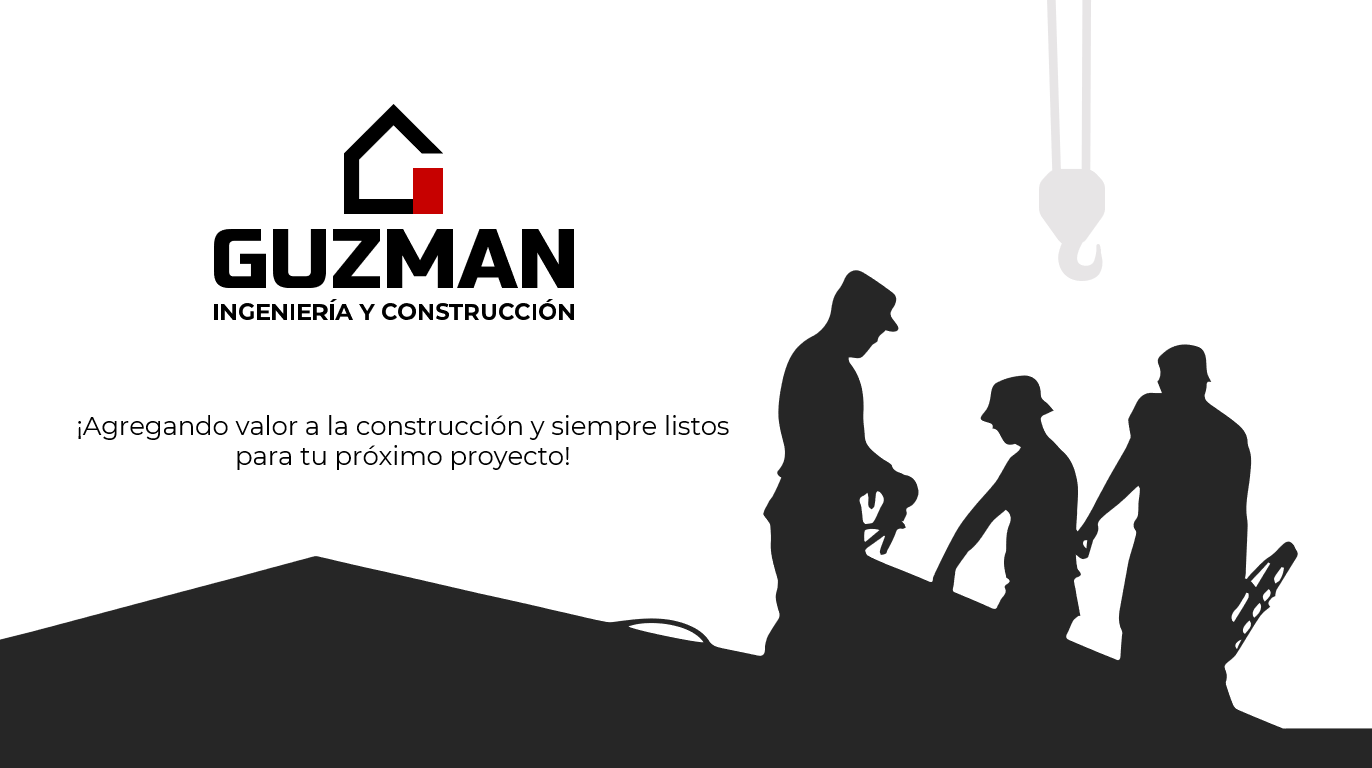
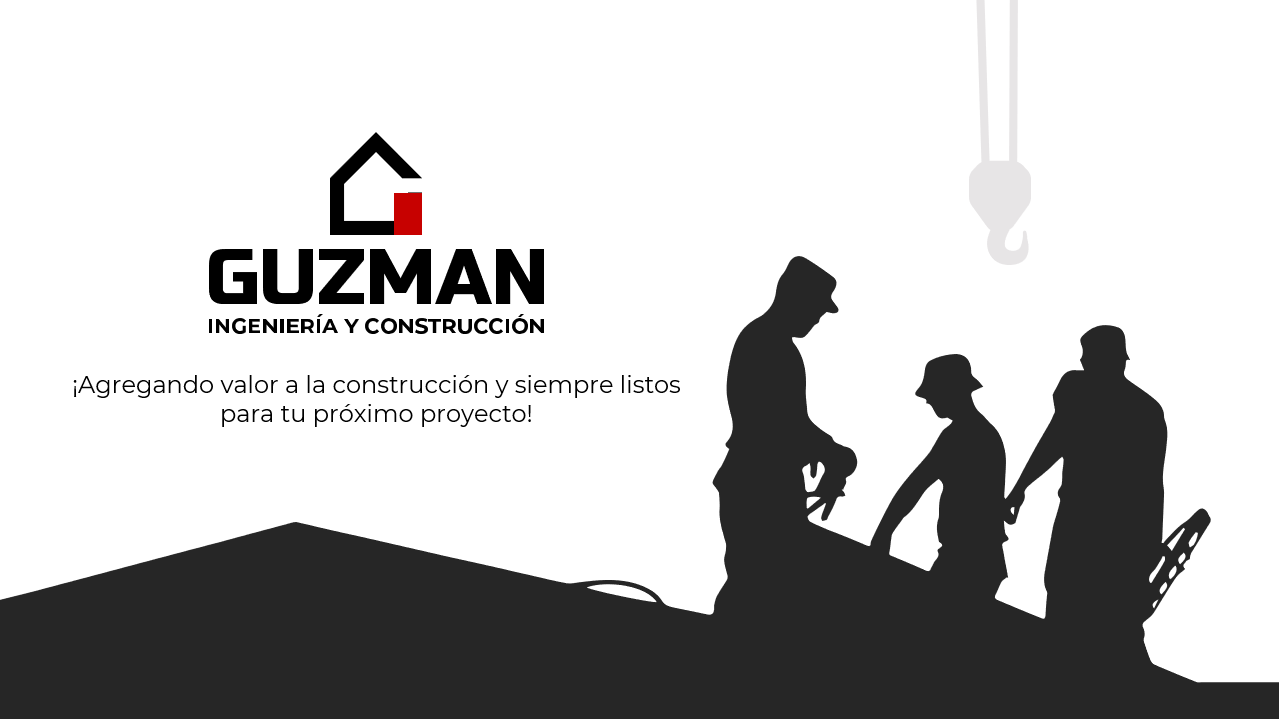
bg

diff --git a/index.html b/index.html
@@ -73,7 +73,7 @@
       <div class="">
         <div class="row">
           <div class="col">
-            <div class="fondo d-none d-md-block"></div>
+            <div class="fondo d-none d-md-block mt-1"></div>
           </div>
         </div>
       </div>

diff --git a/css/style.css b/css/style.css
@@ -1,4 +1,5 @@
 .fondo {
+    margin-top: 5;
     height: 98vh;
     background: url("https://raw.githubusercontent.com/PGP28/Front-End_Ing_V3/main/img/bg.png")no-repeat center center;
     background-size: cover;
